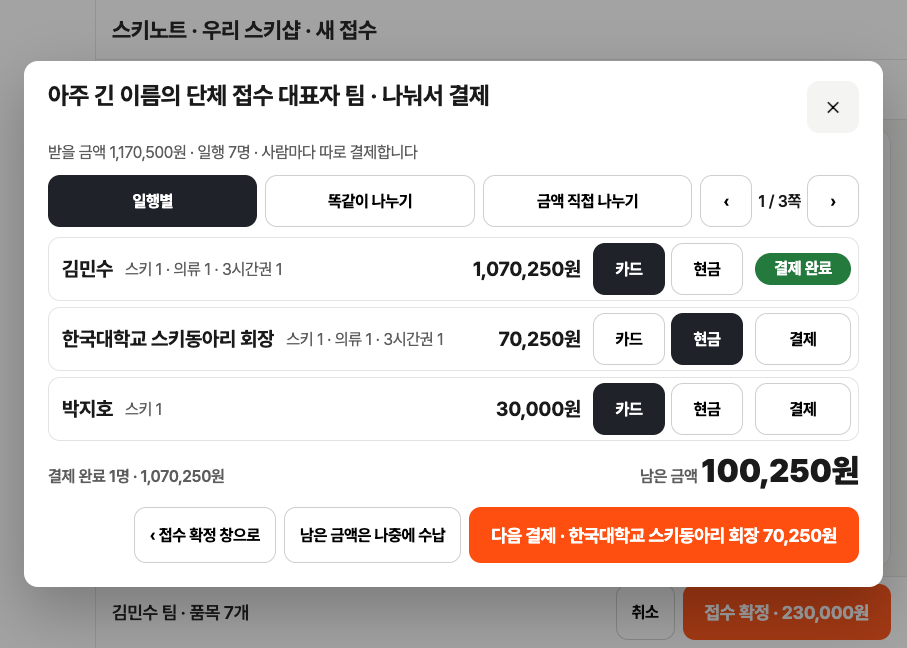
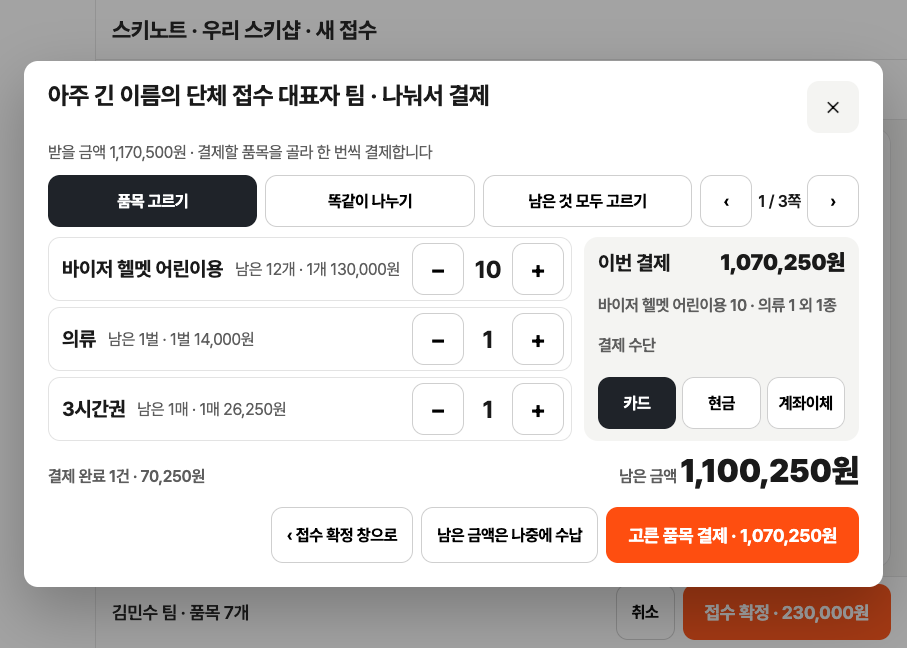
design(higgsfield): split payment by picking items instead of people
Walk-in rentals record only the representative's name, so a per-person
split cannot work. S08R replaces S08: choose quantities from the unpaid
items, pay that bundle by card or cash, repeat with what is left.
UI only for the later card-reader work (3 credits).

diff --git a/design/higgsfield/pos-settings-v1/index.html b/design/higgsfield/pos-settings-v1/index.html
@@ -1,6 +1,6 @@
 <!doctype html><html lang="ko"><meta charset="utf-8"><meta name="viewport" content="width=device-width,initial-scale=1"><title>스키노트 시안 · 매장 설정과 접수 확정</title>
 <style>body{margin:0;background:#f3f1f8;color:#242031;font:17px/1.6 system-ui,sans-serif}header,main{max-width:1400px;margin:auto;padding:28px}h1{margin:0 0 6px}main{display:grid;grid-template-columns:repeat(auto-fill,minmax(520px,1fr));gap:20px;padding-top:0}article{background:#fff;border-radius:14px;padding:16px;box-shadow:0 1px 0 #ded9ec}h2{margin:0;font-size:19px}.v{margin:2px 0 10px;color:#5f33e1;font-weight:700;font-size:15px}img{width:100%;border-radius:10px;border:1px solid #e3e3e3;display:block}article p:last-child{margin:10px 0 0;font-size:16px}</style>
-<header><h1>스키노트 시안 · 매장 설정과 접수 확정 (pos-settings-v1)</h1><p>2026-09-21 · 8장 · 24 크레딧 · 다시 뽑기 0 · 요청서 <a href="../../../docs/44-higgsfield-settings-payment-screens.md">docs/44</a> · <a href="fit-check/index.html">실제 크기 검사</a></p></header>
+<header><h1>스키노트 시안 · 매장 설정과 접수 확정 (pos-settings-v1)</h1><p>2026-09-21 · 9장 · 27 크레딧 · 다시 뽑기 0 · 요청서 <a href="../../../docs/44-higgsfield-settings-payment-screens.md">docs/44</a> · <a href="fit-check/index.html">실제 크기 검사</a></p></header>
 <main>
 <article><h2>S01 · 관리 · 매장 설정 · 수령 장소(구역별)</h2><p class="v">통과 · 참조 M06 + M01</p><a href="s01-settings-places.jpg"><img src="s01-settings-places.jpg" alt="관리 · 매장 설정 · 수령 장소(구역별)" loading="lazy"></a><p>구역 칩(만선 5 · 설천 4 · 기타 3 · 구역 추가) 아래에 고른 구역의 장소만 행으로 보인다. 왼쪽 탭 8개(할인 추가), 하단에 `스키장 템플릿` · `장소 추가`. 레일 7개 · 헤더 완전. 샘플 표기: `매장 정보` 옆 숫자 0은 요청에 없던 값(기록만).</p></article>
 <article><h2>S02 · 팝업 · 스키장 템플릿</h2><p class="v">통과 · 참조 M06 + P20</p><a href="s02-popup-resort-template.jpg"><img src="s02-popup-resort-template.jpg" alt="팝업 · 스키장 템플릿" loading="lazy"></a><p>왼쪽에서 스키장을 고르면 오른쪽에 채워지는 값(구역 · 수령 장소 · 반납 타임 · 리프트권 권종)이 보인다. `요금과 할인은 바뀌지 않습니다` · `이미 있는 값은 지우지 않고 없는 항목만 추가합니다` 안내 포함. 어두운 배경(부모 화면)의 레일 오탈자는 배경이라 기록만.</p></article>
@@ -9,5 +9,6 @@
 <article><h2>S06 · 팝업 · 수령 장소 선택(구역별)</h2><p class="v">통과 · 참조 P12 + P20</p><a href="s06-popup-place.jpg"><img src="s06-popup-place.jpg" alt="팝업 · 수령 장소 선택(구역별)" loading="lazy"></a><p>구역 칩으로 구역을 바꾸고 장소를 3열 큰 버튼(64px)으로 고른다. 빈 칸은 `직접 입력`. 하단 `취소` · `매장 수령으로` · `이 장소로 선택`. 어두운 배경의 깨진 시간 글자는 배경이라 기록만.</p></article>
 <article><h2>S07 · 팝업 · 접수 확정 · 할인과 수납</h2><p class="v">S07R로 대체 · 참조 P12 + P21</p><a href="s07-popup-confirm-payment.jpg"><img src="s07-popup-confirm-payment.jpg" alt="팝업 · 접수 확정 · 할인과 수납" loading="lazy"></a><p>장비 대여와 리프트권을 두 칸으로 나눠 각각 금액 · 할인 버튼 · 할인액 · 결제 수단 · 받을 금액을 보인다. 아래에 합계, 하단 `취소` · `나중에 수납` · `수납하고 접수 확정 · N원`. 메모: 왼쪽 아래 요약의 `받을 47,500원`은 `할인 47,500원`의 오기(한 낱말) — 구현은 `할인`. 주 버튼 글자가 작게 그려짐 — 구현은 18px.</p></article>
 <article><h2>S07R · 팝업 · 접수 확정 · 할인 종류 넷 + 나눠서 결제 (S07 고침)</h2><p class="v">통과 · 참조 P12 + S07</p><a href="s07r-popup-confirm-payment.jpg"><img src="s07r-popup-confirm-payment.jpg" alt="팝업 · 접수 확정 · 할인 종류 넷 + 나눠서 결제 (S07 고침)" loading="lazy"></a><p>사용자 답변(2026-09-21) 반영: 장비 할인은 `없음` · `장비당 할인 / 하루 5,000원` · `% 할인 / 선택` · `금액 할인 / 선택` 네 칸 중 하나만. 숫자가 규칙과 맞음(스키 3 · 의류 2 · 2일 → −42,000원, 합계 170,500원, 요약 `할인 59,500원 · 카드 118,000원 · 현금 52,500원`). 하단에 `나눠서 결제` 입구. 두 줄 버튼의 작은 글자는 구현에서 16px.</p></article>
-<article><h2>S08 · 팝업 · 나눠서 결제(일행별)</h2><p class="v">통과 · 참조 P12 + S07</p><a href="s08-popup-split-payment.jpg"><img src="s08-popup-split-payment.jpg" alt="팝업 · 나눠서 결제(일행별)" loading="lazy"></a><p>더치페이 창. 나누는 방법 세 칸(`일행별` · `똑같이 나누기` · `금액 직접 나누기`), 일행마다 품목 · 금액 · `카드/현금` · `결제`(끝나면 초록 `결제 완료`), 아래 `남은 금액`, 하단 `‹ 접수 확정 창으로` · `남은 금액은 나중에 수납` · 주 버튼 `다음 결제 · 이서연 70,250원`. 화면만 그린 것이고 카드 단말 연동은 나중.</p></article>
+<article><h2>S08 · 팝업 · 나눠서 결제(일행별)</h2><p class="v">S08R로 대체 · 참조 P12 + S07</p><a href="s08-popup-split-payment.jpg"><img src="s08-popup-split-payment.jpg" alt="팝업 · 나눠서 결제(일행별)" loading="lazy"></a><p>더치페이 창. 나누는 방법 세 칸(`일행별` · `똑같이 나누기` · `금액 직접 나누기`), 일행마다 품목 · 금액 · `카드/현금` · `결제`(끝나면 초록 `결제 완료`), 아래 `남은 금액`, 하단 `‹ 접수 확정 창으로` · `남은 금액은 나중에 수납` · 주 버튼 `다음 결제 · 이서연 70,250원`. 화면만 그린 것이고 카드 단말 연동은 나중.</p></article>
+<article><h2>S08R · 팝업 · 나눠서 결제(품목 고르기 · S08 고침)</h2><p class="v">통과 · 참조 P12 + S08</p><a href="s08r-popup-split-by-items.jpg"><img src="s08r-popup-split-by-items.jpg" alt="팝업 · 나눠서 결제(품목 고르기 · S08 고침)" loading="lazy"></a><p>사용자 지적(2026-09-21) 반영: 현장 대여는 대표자 이름만 적으므로 사람별로 나눌 수 없다 → **남은 품목에서 수량을 골라 한 묶음씩 결제.** 위에 `품목 고르기` · `똑같이 나누기` · `남은 것 모두 고르기`, 왼쪽에 품목 행(남은 수량 · 하나 값 · −/+), 오른쪽 `이번 결제` 금액과 `카드 · 현금 · 계좌이체`, 아래 `결제 완료 1건` · `남은 금액`, 하단 `‹ 접수 확정 창으로` · `남은 금액은 나중에 수납` · 주 버튼 `고른 품목 결제 · 70,250원`. 샘플 표기: 의류 줄의 `1별`은 `1벌`의 오기(기록만).</p></article>
 </main></html>

diff --git a/design/higgsfield/pos-settings-v1/fit-check/index.html b/design/higgsfield/pos-settings-v1/fit-check/index.html
@@ -26,7 +26,7 @@ button{font:inherit;letter-spacing:inherit;min-height:52px;border:0;border-radiu
 .dfoot{display:flex;justify-content:flex-end;gap:8px;padding-top:6px}.chips{display:flex;gap:8px}.grid{display:grid;grid-template-columns:repeat(3,1fr);gap:8px}.grid button{min-height:64px;font-size:20px}
 .note{color:#5d5d5d;line-height:22px}
 body[data-show="s06"] #d6,body[data-show="s07"] #d7,body[data-show="s08"] #d8{display:flex}
-.people{display:flex;flex-direction:column;gap:6px}.person{display:flex;align-items:center;gap:12px;min-height:64px;padding:6px 8px 6px 14px;border-radius:12px;box-shadow:inset 0 0 0 1px #e3e3e3;min-width:0}.person strong{flex:0 1 auto;min-width:0;overflow:hidden;white-space:nowrap;font-size:20px}.person>span:not(.btns):not(.done){flex:1 1 0;min-width:0;overflow:hidden;white-space:nowrap;color:#5d5d5d}.person>b{flex:0 0 auto;font-size:20px;white-space:nowrap}.person .btns{flex:0 0 150px}.done{flex:0 0 96px;text-align:center;background:#247a3d;color:#fff;border-radius:999px;font-weight:700;line-height:32px}.person>.sec{flex:0 0 96px}
+.people{display:flex;flex-direction:column;gap:6px}.person{display:flex;align-items:center;gap:12px;min-height:64px;padding:6px 8px 6px 14px;border-radius:12px;box-shadow:inset 0 0 0 1px #e3e3e3;min-width:0}.person strong{flex:0 1 auto;min-width:0;overflow:hidden;white-space:nowrap;font-size:20px}.person>span:not(.btns):not(.done):not(.stp){flex:1 1 0;min-width:0;overflow:hidden;white-space:nowrap;color:#5d5d5d}.person>b{flex:0 0 auto;font-size:20px;white-space:nowrap}.person .btns{flex:0 0 150px}.done{flex:0 0 96px;text-align:center;background:#247a3d;color:#fff;border-radius:999px;font-weight:700;line-height:32px}.person>.sec{flex:0 0 96px}.split2{display:grid;grid-template-columns:1.35fr 1fr;gap:12px}.stp{flex:0 0 auto;display:flex;align-items:center;gap:6px}.stp button{width:52px;font-size:24px;padding:0}.stp b{min-width:36px;text-align:center;font-size:24px}.pay{justify-content:space-between}
 </style>
 <body>
 <div class="frame"><div class="rail"></div><div class="work">
@@ -59,15 +59,18 @@ body[data-show="s06"] #d6,body[data-show="s07"] #d7,body[data-show="s08"] #d8{di
   </div>
   <div class="line total"><span id="split">할인 47,500원 · 카드 1,130,000원 · 현금 52,500원</span><span>합계 <b>1,182,500원</b></span></div>
   <div class="dfoot"><button class="sec">취소</button><button class="sec">나중에 수납</button><button class="sec">나눠서 결제</button><button class="primary">수납하고 접수 확정 · 1,182,500원</button></div></div></div></div>
-<div class="dim" id="d8"><div class="dlg" id="dlg8" style="--w:880px"><header><h2>아주 긴 이름의 단체 접수 대표자 팀 · 나눠서 결제</h2><button>✕</button></header><div class="in"><p class="sub">받을 금액 1,170,500원 · 일행 7명 · 사람마다 따로 결제합니다</p>
-  <div class="row" style="gap:8px"><div class="chips" style="flex:1 1 0"><button class="opt on">일행별</button><button class="opt">똑같이 나누기</button><button class="opt">금액 직접 나누기</button></div><span style="flex:0 0 auto;display:flex;gap:6px;align-items:center;font-weight:600"><button style="width:52px">‹</button> 1 / 3쪽 <button style="width:52px">›</button></span></div>
-  <div class="people">
-    <div class="person"><strong>김민수</strong><span>스키 1 · 의류 1 · 3시간권 1</span><b>1,070,250원</b><span class="btns"><button class="opt on">카드</button><button class="opt">현금</button></span><span class="done">결제 완료</span></div>
-    <div class="person"><strong>한국대학교 스키동아리 회장</strong><span>스키 1 · 의류 1 · 3시간권 1</span><b>70,250원</b><span class="btns"><button class="opt">카드</button><button class="opt on">현금</button></span><button class="sec">결제</button></div>
-    <div class="person"><strong>박지호</strong><span>스키 1</span><b>30,000원</b><span class="btns"><button class="opt on">카드</button><button class="opt">현금</button></span><button class="sec">결제</button></div>
+<div class="dim" id="d8"><div class="dlg" id="dlg8" style="--w:880px"><header><h2>아주 긴 이름의 단체 접수 대표자 팀 · 나눠서 결제</h2><button>✕</button></header><div class="in"><p class="sub">받을 금액 1,170,500원 · 결제할 품목을 골라 한 번씩 결제합니다</p>
+  <div class="row" style="gap:8px"><div class="chips" style="flex:1 1 0"><button class="opt on">품목 고르기</button><button class="opt">똑같이 나누기</button><button class="opt">남은 것 모두 고르기</button></div><span style="flex:0 0 auto;display:flex;gap:6px;align-items:center;font-weight:600"><button style="width:52px">‹</button> 1 / 3쪽 <button style="width:52px">›</button></span></div>
+  <div class="split2">
+    <div class="people">
+      <div class="person"><strong>바이저 헬멧 어린이용</strong><span>남은 12개 · 1개 130,000원</span><span class="stp"><button>−</button><b>10</b><button>+</button></span></div>
+      <div class="person"><strong>의류</strong><span>남은 1벌 · 1벌 14,000원</span><span class="stp"><button>−</button><b>1</b><button>+</button></span></div>
+      <div class="person"><strong>3시간권</strong><span>남은 1매 · 1매 26,250원</span><span class="stp"><button>−</button><b>1</b><button>+</button></span></div>
+    </div>
+    <div class="card pay"><div class="head"><span>이번 결제</span><b>1,070,250원</b></div><span class="lab" style="white-space:nowrap;overflow:hidden">바이저 헬멧 어린이용 10 · 의류 1 외 1종</span><span class="lab">결제 수단</span><div class="btns"><button class="opt on">카드</button><button class="opt">현금</button><button class="opt">계좌이체</button></div></div>
   </div>
-  <div class="line total"><span>결제 완료 1명 · 1,070,250원</span><span>남은 금액 <b>100,250원</b></span></div>
-  <div class="dfoot"><button class="sec">‹ 접수 확정 창으로</button><button class="sec">남은 금액은 나중에 수납</button><button class="primary">다음 결제 · 한국대학교 스키동아리 회장 70,250원</button></div></div></div></div>
+  <div class="line total"><span>결제 완료 1건 · 70,250원</span><span>남은 금액 <b>1,100,250원</b></span></div>
+  <div class="dfoot"><button class="sec">‹ 접수 확정 창으로</button><button class="sec">남은 금액은 나중에 수납</button><button class="primary">고른 품목 결제 · 1,070,250원</button></div></div></div></div>
 </div>
 <script>document.body.dataset.show=location.hash.slice(1)||'s05';</script>
 </body></html>

diff --git a/design/higgsfield/README.md b/design/higgsfield/README.md
@@ -49,4 +49,4 @@
 | `pos-main-v1/` | POS 메인 화면 8종 + 목록 비교안 1종 | [docs/38-higgsfield-pos-main-screens.md](../../docs/38-higgsfield-pos-main-screens.md) | 9장 생성·검수 완료 (2026-09-21, 14장·42 크레딧) · [보기](pos-main-v1/index.html) |
 | `pos-rest-v1/` | 나머지 화면 33종: 포스 화면 9 · 팝업 13 · 관리 8 · 기사 태블릿 3 | [docs/40-higgsfield-pos-rest-screens.md](../../docs/40-higgsfield-pos-rest-screens.md) | 같은 템플릿(앵커 P01) + 기준 화면 4종(P02R 카드 목록 · M01 관리 · P20 팝업 · D01 기사) · [보기](pos-rest-v1/index.html) |
 | `driver-phone-v1/` | 기사 휴대폰 화면 4종(차량 운행 · 배달 처리 · 차량 보관 · 못 받음·방문 결과) · 세로 9:16 · 기준 360×640 | [docs/41-higgsfield-driver-phone-screens.md](../../docs/41-higgsfield-driver-phone-screens.md) | 4장 · 12 크레딧 · 재생성 0 · 실제 크기 검사 포함 · [보기](driver-phone-v1/index.html) |
-| `pos-settings-v1/` | 매장 설정(구역별 수령 장소 · 스키장 템플릿 · 할인) 3종 + 새 접수 3단계(구역 버튼 · 반납 타임) 1종 + 팝업 2종(수령 장소 선택 · 접수 확정의 할인·수납) | [docs/44-higgsfield-settings-payment-screens.md](../../docs/44-higgsfield-settings-payment-screens.md) | 8장 · 24 크레딧 · 재생성 0(S07R은 답변 반영 새 판) · 나눠서 결제(더치페이) 화면 포함 · 실제 크기 검사 포함(2026-09-21) · 원본 PNG는 이 브랜치에만 · [보기](pos-settings-v1/index.html) |
+| `pos-settings-v1/` | 매장 설정(구역별 수령 장소 · 스키장 템플릿 · 할인) 3종 + 새 접수 3단계(구역 버튼 · 반납 타임) 1종 + 팝업 2종(수령 장소 선택 · 접수 확정의 할인·수납) | [docs/44-higgsfield-settings-payment-screens.md](../../docs/44-higgsfield-settings-payment-screens.md) | 9장 · 27 크레딧 · 재생성 0(S07R · S08R은 답변 반영 새 판) · 나눠서 결제는 품목 고르기 방식(S08R) · 실제 크기 검사 포함(2026-09-21) · 원본 PNG는 이 브랜치에만 · [보기](pos-settings-v1/index.html) |
